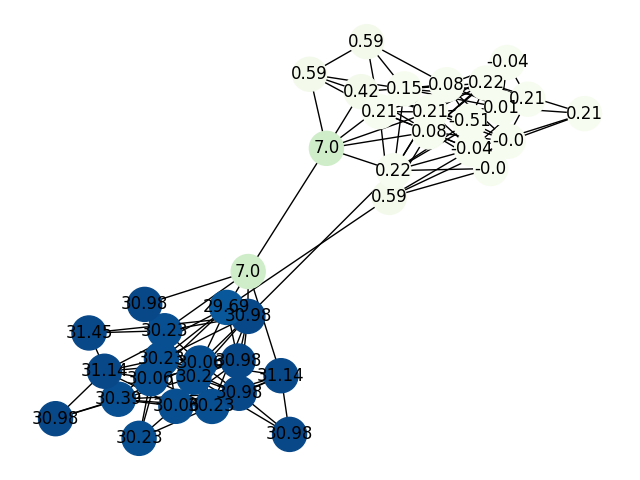
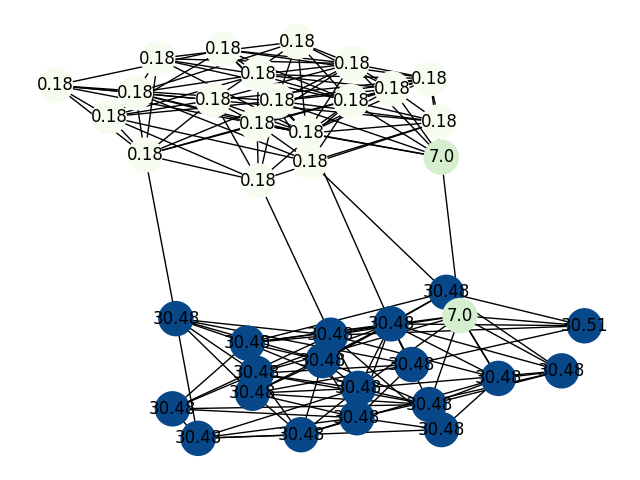
Working and converging again for the median of each community

diff --git a/main_copy.py b/main_copy.py
@@ -1,12 +1,11 @@
 import math
 import os
+import warnings
 
 import networkx as nx
-import warnings
-import functions_copy as func
 import numpy as np
-import pandas as pd
 
+import functions_copy as fc
 from parameters import STOCHASTIC_BLOCK_MODEL, n, p, q, pQueryOracle, path, nCommunities
 
 # Suppress future warnings, comment if code not running due to  this
@@ -14,95 +13,99 @@ warnings.simplefilter(action='ignore', category=FutureWarning)
 
 "Clean the output folder"
 if os.path.exists(path):
-    func.clean_outputs_folder()
+    fc.clean_fldr()
 else:
     os.makedirs(path)
 
 "Set up the graph"
-if STOCHASTIC_BLOCK_MODEL:  # G is generated through a stochastic block model
+if STOCHASTIC_BLOCK_MODEL:
+    # G is generated through a stochastic block model
     probs = [[p, q], [q, p]]
-    G = nx.stochastic_block_model([n, n], probs, seed=45)  # Generate graph
-    mc_edges, mc, minDegree = func.find_cut(G)  # Obtain the edges of the inter-blocks cut
-    print(f'The partition cut edges: {mc_edges}\nThe length of the cut: '
-          f'{mc}\nThe min degree: {minDegree}')
-else:  # G is the result of merging two regular graphs
-    G, mc = func.generate_graph(n, p, q)
+    G = nx.stochastic_block_model([n, n], probs, seed=55)  # Generate graph
+    mc_edges, mc, minDegree = fc.find_cut(G)  # Obtain the edges of the inter-blocks cut
+
+    print(f'The partition cut edges: {mc_edges}'
+          f'\nThe length of the cut: '
+          f'{mc}'
+          f'\nThe min degree: {minDegree}')
+else:
+    # G is the result of merging two regular graphs
+    G, mc = fc.generate_graph(n, p, q)
     mc_edges = {}  # TODO: Cristina Complete this part
 
 tf = math.ceil(2 * n * 0.05)  # top faulty nodes
 fn = [math.floor(tf / 2), tf - math.floor(tf / 2)]  # The faulty nodes per community
 redNodes = math.ceil(tf + int(0.8 * tf) * 1 / pQueryOracle)  # The amount of redundant nodes
 
-print(f'n of faulty nodes: {tf}\nn of redundant nodes: {redNodes}')
+print(f'n of faulty nodes: {tf}'
+      f'\nn of redundant nodes: {redNodes}')
 
 "Initial Step"
-fn_indices = func.choose_fn_indices(G, fn, mc_edges)
-nu, values, G = func.assign_values(G, fn, fn_indices)
+fn_indices = fc.choose_fn_idx(G, fn, mc_edges)
+nu, values, G, goodValues = fc.assign_values(G, fn, fn_indices)
 
-func.display_graph(G, 0, 'Graph_iter', path)
+fc.display_graph(G, 0, 'Graph_iter', path)
 
 "Calculate the initial median"
-median = [func.majority_median(list(values[i].values())) for i in range(nCommunities)]
+median = [fc.mMedian(list(values[i].values())) for i in range(nCommunities)]
 l = {}
 [l.update(values[i]) for i in range(nCommunities)]
-medianTotal = func.majority_median(list(l.values()))
-medianOfMedian = func.majority_median(median)
+medianTotal = fc.mMedian(list(l.values()))
+medianOfMedian = fc.mMedian(median)
 
 print(f'The initial median: {median}\nThe global median: {medianTotal}'
       f'\nThe median of medians: {medianOfMedian}')
 
 "Calculate the potentials"
 print('Calculate the potentials...')
-community_potential = func.calculate_community_potential(values, G, fn_indices)
-global_potential = func.calculate_global_potential(values, G, fn_indices)
+community_potential = fc.get_comm_pot(goodValues, G)
+global_potential = fc.get_glob_pot(values, G, fn_indices)
+
+
+print(f'######################## Obtain community median ########################')
 
 condition_list = list(np.abs(community_potential[0]))
 for c in range(1, nCommunities):
     condition_list += list(np.abs(community_potential[c]))
 
-# while any(condition_list) > 0.01 and counter < 3 * int(math.log(n)):  # and distanceChange > 0.001:
-#     temp, nodeAttributes = values.copy(), {}
-#     for x in list(G):
-#         neighVals = []
-#         if x not in badValuesIdx:
-#             neighbors = list(G.adj[x])
-#             for c in range(nCommunities):
-#                 neighVals += [values[c][j] for j in neighbors if j in values[c].keys()]
-#             for c in range(nCommunities):
-#                 if x in values[c].keys():
-#                     med = func.majority_median(neighVals)
-#                     temp[c].update({x: med})
-#                     goodValues[c].update({x: med})
-#     for c in range(nCommunities):
-#         nodeAttributes.update(temp[c])
-#     nx.set_node_attributes(G, nodeAttributes, 'Values')
-#     func.display_graph(G, t, 'Graph_iter', path)
-#
-#     values = temp
-#
-#     # Update potentials
-#     community_potential = func.calculate_community_potential(goodValues, G)
-#     global_potential = func.calculate_global_potential(goodValues, G)
-#
-#     tmpp = []
-#     for c in range(nCommunities):
-#         tmpp += list(np.abs(community_potential[c]))
-#     condition_list = tmpp
-#
-#     t += 1
-#     counter += 1
-#
-print(f'########################'
-      f'Obtain community median'
-      f'########################')
-community_potential, t, values = func.main_loop(condition_list, values, fn_indices, G)
+t, counter = 1, 0
+badValuesIdx = fn_indices[0]
+for c in range(nCommunities):
+    badValuesIdx += fn_indices[c]
+while any(condition_list) > 0.001 and counter < 30 * int(math.log(n)):  # and distanceChange > 0.001:
+    temp, nodeAttributes = values.copy(), {}
+    for x in list(G):
+        neighVals = []
+        if x not in badValuesIdx:
+            neighbors = list(G.adj[x])
+            for c in range(nCommunities):
+                neighVals += [values[c][j] for j in neighbors if j in values[c].keys()]
+            for c in range(nCommunities):
+                if x in values[c].keys():
+                    med = fc.mMedian(neighVals)
+                    temp[c].update({x: med})
+                    goodValues[c].update({x: med})
+    for c in range(nCommunities):
+        nodeAttributes.update(temp[c])
+    nx.set_node_attributes(G, nodeAttributes, 'Values')
+    fc.display_graph(G, t, 'Graph_iter', path)
 
-func.save_data(values, 'Community Medians.csv')
+    values = temp
+
+    # Update potentials
+    community_potential = fc.get_comm_pot(goodValues, G)
+
+    condition_list = []
+    for c in range(nCommunities):
+        condition_list += list(np.abs(community_potential[c]))
+
+    t += 1
+    counter += 1
+
+fc.save_data(values, 'Community Medians.csv')
 
 
-print(f'###############################'
-      f'Obtaining the external medians'
-      f'###############################')
+print(f'############################### Obtaining the external medians ###############################')
 
 otherG = G.copy()
 tSecond = 0
@@ -111,36 +114,36 @@ threshold = {}
 # x_b, x_b_goodValues, nodeAttributes = deepcopy(values), [], {}
 # temp_b = deepcopy(values)
 # for c in range(nCommunities):
-#     threshold[c] = func.majority_median(list(values[c].values()))
+#     threshold[c] = fc.mMedian(list(values[c].values()))
 #
-# x_b = func.update_step(otherG, x_b, threshold, temp_b, x_b_goodValues, badValuesIdx, tSecond, redNodes)
+# x_b = fc.update_step(otherG, x_b, threshold, temp_b, x_b_goodValues, badValuesIdx, tSecond, redNodes)
 #
-# community_potential = func.calculate_community_potential(x_b_goodValues, otherG)
-# global_potential = func.calculate_global_potential(x_b_goodValues, otherG)
+# community_potential = fc.calculate_community_potential(x_b_goodValues, otherG)
+# global_potential = fc.calculate_global_potential(x_b_goodValues, otherG)
 #
 # condition_list = []
 # for c in range(nCommunities):
 #     condition_list += list(np.abs(community_potential[c]))
-#     threshold[c] = func.majority_median(list(values[c].values()))
+#     threshold[c] = fc.mMedian(list(values[c].values()))
 #     nodeAttributes.update(x_b[c])
 #
 # nx.set_node_attributes(otherG, nodeAttributes, 'Values')
-# func.display_graph(otherG, tSecond, 'OtherCommunity_iter', path)
+# fc.display_graph(otherG, tSecond, 'OtherCommunity_iter', path)
 #
 # counter = 0
 # while any(condition_list) > 0.01 and counter < 3 * int(math.log(n)):  # and distanceChange > 0.001:
 #     temp_b, x_b_goodValues, nodeAttributes = deepcopy(x_b), [], {}
-#     x_b = func.update_step(otherG, x_b, threshold, temp_b, x_b_goodValues, badValuesIdx, tSecond, redNodes)
+#     x_b = fc.update_step(otherG, x_b, threshold, temp_b, x_b_goodValues, badValuesIdx, tSecond, redNodes)
 #
-#     community_potential = func.calculate_community_potential(x_b_goodValues, otherG)
-#     global_potential = func.calculate_global_potential(x_b_goodValues, otherG)
+#     community_potential = fc.calculate_community_potential(x_b_goodValues, otherG)
+#     global_potential = fc.calculate_global_potential(x_b_goodValues, otherG)
 #
 #     condition_list = []
 #     for c in range(nCommunities):
 #         condition_list += list(np.abs(community_potential[c]))
 #         nodeAttributes.update(x_b[c])
 #     nx.set_node_attributes(otherG, nodeAttributes, 'Values')
-#     func.display_graph(otherG, tSecond, 'OtherCommunity_iter', path)
+#     fc.display_graph(otherG, tSecond, 'OtherCommunity_iter', path)
 #
 #     tSecond += 1
 #     counter += 1

diff --git a/functions_copy.py b/functions_copy.py
@@ -17,7 +17,7 @@ from parameters import gSize, nCommunities, \
 
 
 # Clean the outputs folder or make a new one if it doesn't exist
-def clean_outputs_folder():
+def clean_fldr():
     folder = path
     for filename in os.listdir(folder):
         file_path = os.path.join(folder, filename)
@@ -62,7 +62,7 @@ def find_cut(mG):
 
 
 # Select the indices of the edges across the border
-def choose_fn_indices(mG, faultyNodes, borderNodes):
+def choose_fn_idx(mG, faultyNodes, borderNodes):
     fn_copy = faultyNodes.copy()
     faultyNodesIdx = [[], []]  # TODO: rewrite it to account for more than two communities
     for i in range(nCommunities):
@@ -81,7 +81,7 @@ def choose_fn_indices(mG, faultyNodes, borderNodes):
 # Assign the faulty values to the nodes on the border
 def assign_values(mG, faultyNodes, faultyNodesIdx):
     mNu, gv, bv = [], [], []
-    S = []
+    S, Sgood = [], []
     for i in range(nCommunities):
         if i:
             indices = list(mG)[gSize[i - 1]:gSize[i] + gSize[i - 1]]
@@ -97,13 +97,14 @@ def assign_values(mG, faultyNodes, faultyNodesIdx):
         S1 = {faultyNodesIdx[i][f]: bv[-1][f] for f in range(len(bv[-1]))}
         S2 = {indices[g]: gv[-1][g] for g in range(len(gv[-1]))}
         S1.update(S2)
+        Sgood.append(S2)
 
         S.append(S1)
 
     attributes = {}
     [attributes.update(S[i]) for i in range(nCommunities)]
     nx.set_node_attributes(mG, attributes, 'Values')
-    return mNu, S, mG
+    return mNu, S, mG, Sgood
 
 
 # Display the graph
@@ -122,7 +123,7 @@ def display_graph(mG, rep, mString, path):
 
 
 # Define majority median
-def majority_median(v):
+def mMedian(v):
     v.sort()
     idx = math.ceil(len(v) / 2)
     if len(v) > 1:
@@ -132,19 +133,18 @@ def majority_median(v):
 
 
 # Calculates the potential as u = 1/2 \sum_{x \in V}\sum_{y in N_x}(\xi_y - \xi_x) = - 1/2 \Nabla \phi
-def calculate_community_potential(vals, mG, fnIdx):
+def get_comm_pot(vals, mG):
     pot = {}
     for i in range(nCommunities):
-        goodNodes = {j: vals[i][j] for j in vals[i].keys() if j not in fnIdx[i]}
-        sG = mG.subgraph(goodNodes.keys())
+        sG = mG.subgraph(list(vals[i].keys()))  # Obtain the community subgraph
         mL_comm = nx.laplacian_matrix(sG)
-        mVals = np.array(list(goodNodes.values()))
+        mVals = np.array([j for j in vals[i].values()])
         tmp = (-1) * np.dot(mL_comm.toarray(), mVals)
         pot[i] = np.array([round(i, 4) for i in tmp])
     return pot
 
 
-def calculate_global_potential(vals, mG, fnIdx):
+def get_glob_pot(vals, mG, fnIdx):
     goodNodes = {}
     for c in range(nCommunities):
         goodNodes.update({j: vals[c][j] for j in vals[c].keys() if j not in fnIdx[c]})
@@ -156,48 +156,48 @@ def calculate_global_potential(vals, mG, fnIdx):
     return pot
 
 
-# Main loop
-def main_loop(condition, values, badValIdx, mG):
-    global nodeAttributes, cp
+def main_loop_old(mG, values, goodValues, fn_indices, condition_list):
     t, counter = 1, 0
-    vals, bvi = values[0].copy(), badValIdx[0].copy()
-    for c in range(1, nCommunities):  # remove community partition in structures
-        bvi += badValIdx[c]
-        vals.update(values[c])
-    while any(condition) > 0.01 and counter < 30 * int(math.log(n)):  # and distanceChange > 0.001:
-        nodeAttributes = values.copy()
+    badValuesIdx = fn_indices[0]
+    for c in range(nCommunities):
+        badValuesIdx += fn_indices[c]
+    while any(condition_list) > 0.001 and counter < 30 * int(math.log(n)):  # and distanceChange > 0.001:
+        temp, nodeAttributes = values.copy(), {}
         for x in list(mG):
-            if x not in bvi:
+            neighVals = []
+            if x not in badValuesIdx:
                 neighbors = list(mG.adj[x])
-                neighVals = [vals[j] for j in neighbors]
-                med = majority_median(neighVals)
+                for c in range(nCommunities):
+                    neighVals += [values[c][j] for j in neighbors if j in values[c].keys()]
                 for c in range(nCommunities):
                     if x in values[c].keys():
-                        nodeAttributes[c].update({x: med})
-        values = copy.deepcopy(nodeAttributes)
-        tmp = nodeAttributes[0]
+                        med = majority_median(neighVals)
+                        temp[c].update({x: med})
+                        goodValues[c].update({x: med})
         for c in range(nCommunities):
-            tmp.update(nodeAttributes[c])
-        nodeAttributes = tmp
+            nodeAttributes.update(temp[c])
         nx.set_node_attributes(mG, nodeAttributes, 'Values')
         display_graph(mG, t, 'Graph_iter', path)
 
-        cp = calculate_community_potential(values, mG, badValIdx)
+        values = temp
 
-        condition = list(np.abs(cp[0]))
-        for c in range(1, nCommunities):
-            condition += list(np.abs(cp[c]))
+        # Update potentials
+        community_potential = calculate_community_potential(goodValues, mG)
+
+        condition_list = []
+        for c in range(nCommunities):
+            condition_list += list(np.abs(community_potential[c]))
 
         t += 1
         counter += 1
 
-    return cp, t, values
+        return community_potential, t, values
 
 
 def save_data(vals, mStr):
-    data = {'Comm 0': vals[0].values()}
+    data = {'Comm 0': [round(r, 4) for r in vals[0].values()]}
     for c in range(1, nCommunities):
-        data.update({f'Comm {c}': vals[c].values()})
+        data.update({f'Comm {c}': [round(r, 4) for r in vals[c].values()]})
     df = pd.DataFrame(data)
     # for c in range(1, nCommunities):
     #     mStr = f'Comm {c}'

diff --git a/parameters.py b/parameters.py
@@ -3,8 +3,8 @@ BORDER_NODES_OPTION = 1
 STOCHASTIC_BLOCK_MODEL = 1
 n = 20
 gSize = [n, n]
-nCommunities = 2
-p, q = 0.4, 0.01
+nCommunities = 2  # The number of communities
+p, q = 0.5, 0.01
 pQueryOracle = 0.3
 
 thr = 3  # The number of times the oracle is queried
